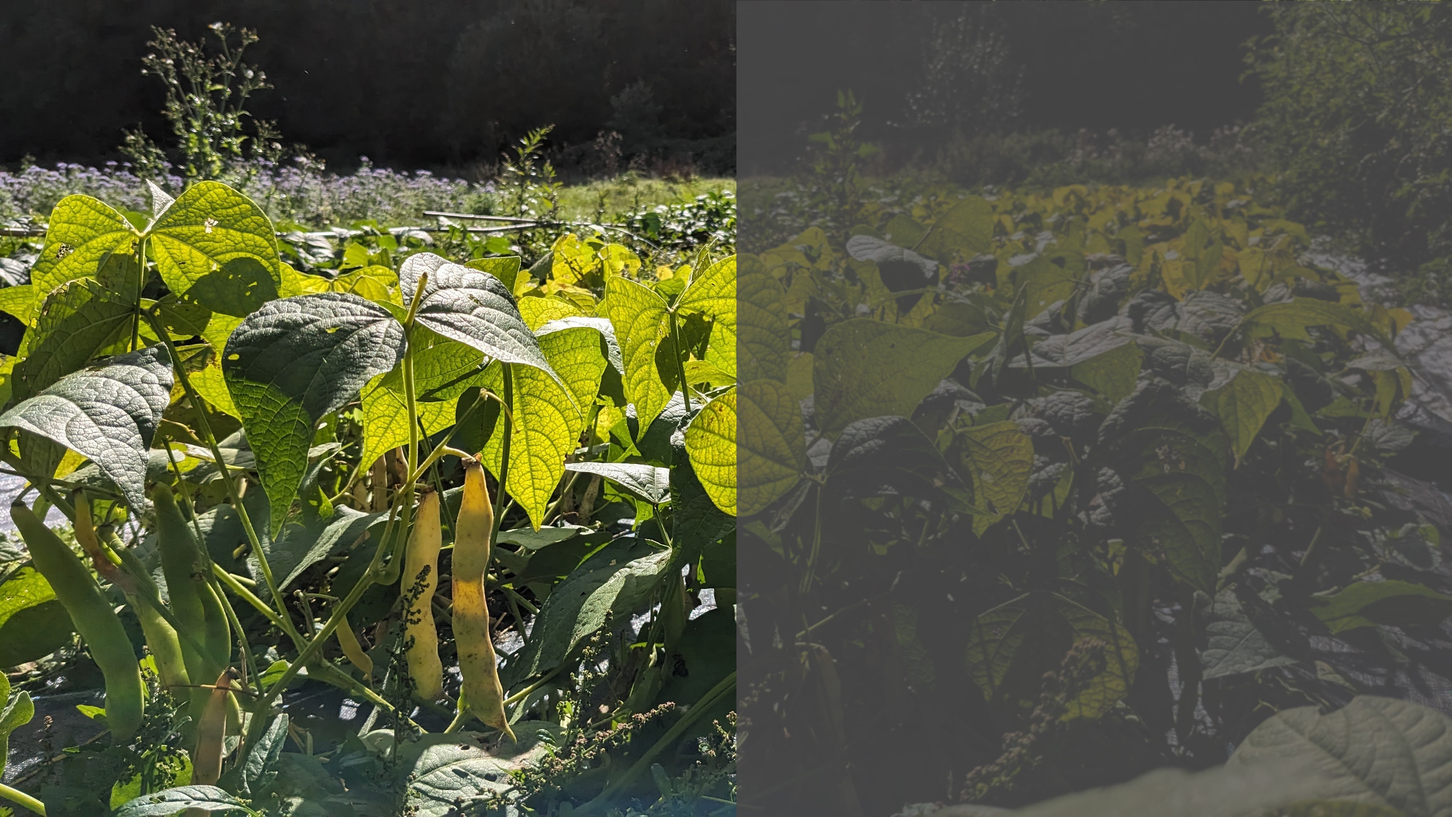
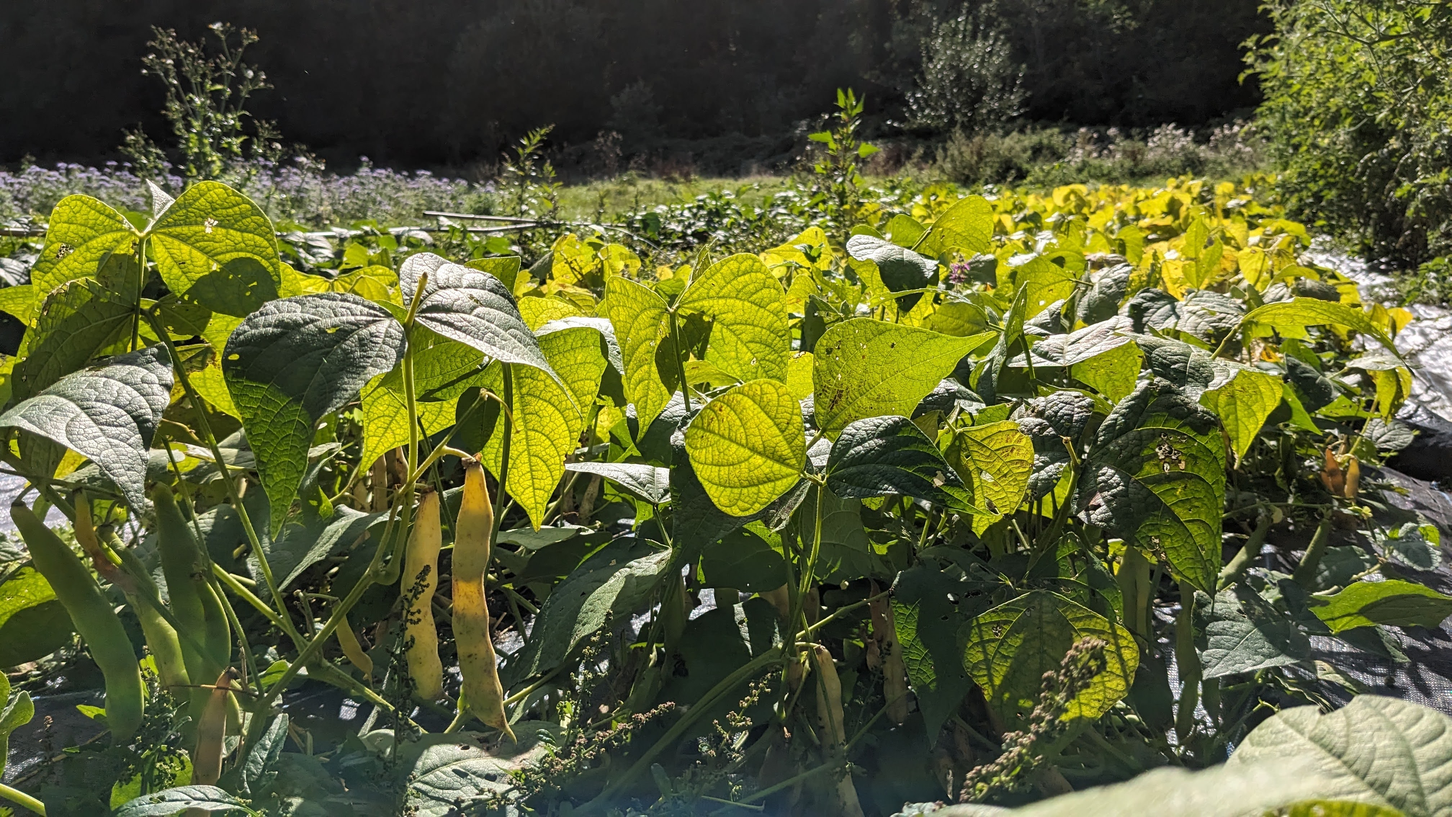
Add background overlay div

diff --git a/seed_portfolio.html b/seed_portfolio.html
@@ -7,7 +7,7 @@
  * @auto-scaling true
  * @size 16:9 1280px 720px
  * @size 4:3 960px 720px
- */div#\:\$p > svg > foreignObject > section :is(pre, marp-pre) code.hljs{display:block;overflow-x:auto;padding:1em}div#\:\$p > svg > foreignObject > section code.hljs{padding:3px 5px}div#\:\$p > svg > foreignObject > section .hljs{background:#000;color:#f8f8f8}div#\:\$p > svg > foreignObject > section .hljs-comment,div#\:\$p > svg > foreignObject > section .hljs-quote{color:#aeaeae;font-style:italic}div#\:\$p > svg > foreignObject > section .hljs-keyword,div#\:\$p > svg > foreignObject > section .hljs-selector-tag,div#\:\$p > svg > foreignObject > section .hljs-type{color:#e28964}div#\:\$p > svg > foreignObject > section .hljs-string{color:#65b042}div#\:\$p > svg > foreignObject > section .hljs-subst{color:#daefa3}div#\:\$p > svg > foreignObject > section .hljs-link,div#\:\$p > svg > foreignObject > section .hljs-regexp{color:#e9c062}div#\:\$p > svg > foreignObject > section .hljs-name,div#\:\$p > svg > foreignObject > section .hljs-section,div#\:\$p > svg > foreignObject > section .hljs-tag,div#\:\$p > svg > foreignObject > section .hljs-title{color:#89bdff}div#\:\$p > svg > foreignObject > section .hljs-class .hljs-title,div#\:\$p > svg > foreignObject > section .hljs-doctag,div#\:\$p > svg > foreignObject > section .hljs-title.class_{text-decoration:underline}div#\:\$p > svg > foreignObject > section .hljs-bullet,div#\:\$p > svg > foreignObject > section .hljs-number,div#\:\$p > svg > foreignObject > section .hljs-symbol{color:#3387cc}div#\:\$p > svg > foreignObject > section .hljs-params,div#\:\$p > svg > foreignObject > section .hljs-template-variable,div#\:\$p > svg > foreignObject > section .hljs-variable{color:#3e87e3}div#\:\$p > svg > foreignObject > section .hljs-attribute{color:#cda869}div#\:\$p > svg > foreignObject > section .hljs-meta{color:#8996a8}div#\:\$p > svg > foreignObject > section .hljs-formula{background-color:#0e2231;color:#f8f8f8;font-style:italic}div#\:\$p > svg > foreignObject > section .hljs-addition{background-color:#253b22;color:#f8f8f8}div#\:\$p > svg > foreignObject > section .hljs-deletion{background-color:#420e09;color:#f8f8f8}div#\:\$p > svg > foreignObject > section .hljs-selector-class{color:#9b703f}div#\:\$p > svg > foreignObject > section .hljs-selector-id{color:#8b98ab}div#\:\$p > svg > foreignObject > section .hljs-emphasis{font-style:italic}div#\:\$p > svg > foreignObject > section .hljs-strong{font-weight:700}div#\:\$p > svg > foreignObject > section :is(h1, marp-h1),div#\:\$p > svg > foreignObject > section :is(h2, marp-h2),div#\:\$p > svg > foreignObject > section :is(h3, marp-h3),div#\:\$p > svg > foreignObject > section :is(h4, marp-h4),div#\:\$p > svg > foreignObject > section :is(h5, marp-h5),div#\:\$p > svg > foreignObject > section :is(h6, marp-h6){margin:.5em 0 0}div#\:\$p > svg > foreignObject > section :is(h1, marp-h1) strong,div#\:\$p > svg > foreignObject > section :is(h2, marp-h2) strong,div#\:\$p > svg > foreignObject > section :is(h3, marp-h3) strong,div#\:\$p > svg > foreignObject > section :is(h4, marp-h4) strong,div#\:\$p > svg > foreignObject > section :is(h5, marp-h5) strong,div#\:\$p > svg > foreignObject > section :is(h6, marp-h6) strong{font-weight:inherit}div#\:\$p > svg > foreignObject > section :is(h1, marp-h1)::part(auto-scaling),div#\:\$p > svg > foreignObject > section :is(h2, marp-h2)::part(auto-scaling),div#\:\$p > svg > foreignObject > section :is(h3, marp-h3)::part(auto-scaling),div#\:\$p > svg > foreignObject > section :is(h4, marp-h4)::part(auto-scaling),div#\:\$p > svg > foreignObject > section :is(h5, marp-h5)::part(auto-scaling),div#\:\$p > svg > foreignObject > section :is(h6, marp-h6)::part(auto-scaling){max-height:580px}div#\:\$p > svg > foreignObject > section :is(h1, marp-h1){font-size:1.8em}div#\:\$p > svg > foreignObject > section :is(h2, marp-h2){font-size:1.5em}div#\:\$p > svg > foreignObject > section :is(h3, marp-h3){font-size:1.3em}div#\:\$p > svg > foreignObject > section :is(h4, marp-h4){font-size:1.1em}div#\:\$p > svg > foreignObject > section :is(h5, marp-h5){font-size:1em}div#\:\$p > svg > foreignObject > section :is(h6, marp-h6){font-size:.9em}div#\:\$p > svg > foreignObject > section blockquote,div#\:\$p > svg > foreignObject > section p{margin:1em 0 0}div#\:\$p > svg > foreignObject > section ol>li,div#\:\$p > svg > foreignObject > section ul>li{margin:.3em 0 0}div#\:\$p > svg > foreignObject > section ol>li>p,div#\:\$p > svg > foreignObject > section ul>li>p{margin:.6em 0 0}div#\:\$p > svg > foreignObject > section code{display:inline-block;font-family:Roboto Mono,monospace;font-size:.8em;letter-spacing:0;margin:-.1em .15em;padding:.1em .2em;vertical-align:baseline}div#\:\$p > svg > foreignObject > section :is(pre, marp-pre){display:block;margin:1em 0 0;overflow:visible}div#\:\$p > svg > foreignObject > section :is(pre, marp-pre) code{box-sizing:border-box;font-size:.7em;margin:0;min-width:100%;padding:.5em}div#\:\$p > svg > foreignObject > section :is(pre, marp-pre)::part(auto-scaling){max-height:calc(580px - 1em)}div#\:\$p > svg > foreignObject > section blockquote{margin:1em 0 0;padding:0 1em;position:relative}div#\:\$p > svg > foreignObject > section blockquote:after,div#\:\$p > svg > foreignObject > section blockquote:before{content:"“";display:block;font-family:Times New Roman,serif;font-weight:700;position:absolute}div#\:\$p > svg > foreignObject > section blockquote:before{left:0;top:0}div#\:\$p > svg > foreignObject > section blockquote:after{bottom:0;right:0;transform:rotate(180deg)}div#\:\$p > svg > foreignObject > section blockquote>:first-child{margin-top:0}div#\:\$p > svg > foreignObject > section mark{background:transparent}div#\:\$p > svg > foreignObject > section table{border-collapse:collapse;border-spacing:0;margin:1em 0 0}div#\:\$p > svg > foreignObject > section table td,div#\:\$p > svg > foreignObject > section table th{border-style:solid;border-width:1px;padding:.2em .4em}div#\:\$p > svg > foreignObject > section footer,div#\:\$p > svg > foreignObject > section header,div#\:\$p > svg > foreignObject > section:after{box-sizing:border-box;font-size:66%;height:70px;line-height:50px;overflow:hidden;padding:10px 25px;position:absolute}div#\:\$p > svg > foreignObject > section:after{--marpit-root-font-size:66%;}div#\:\$p > svg > foreignObject > section header{top:0}div#\:\$p > svg > foreignObject > section footer,div#\:\$p > svg > foreignObject > section header{left:0;right:0}div#\:\$p > svg > foreignObject > section footer{bottom:0}div#\:\$p > svg > foreignObject > section{background-color:var(--color-background);background-image:linear-gradient(135deg, hsla(0,0%,53%,0), hsla(0,0%,53%,.02) 50%, hsla(0,0%,100%,0) 0, hsla(0,0%,100%,.05));color:var(--color-foreground);font-family:Lato,Avenir Next,Avenir,Trebuchet MS,Segoe UI,sans-serif;font-size:35px;height:720px;letter-spacing:1.25px;line-height:1.35;padding:70px;width:1280px;word-wrap:break-word;--color-background:#fff8e1;--color-background-stripe:rgba(69,90,100,.1);--color-foreground:#455a64;--color-dimmed:#6a7a7d;--color-highlight:#0288d1;}div#\:\$p > svg > foreignObject > section{--marpit-root-font-size:35px;}div#\:\$p > svg > foreignObject > section:after{bottom:0;font-size:80%;right:0}div#\:\$p > svg > foreignObject > section:after{--marpit-root-font-size:80%;}div#\:\$p > svg > foreignObject > section a,div#\:\$p > svg > foreignObject > section mark{color:var(--color-highlight)}div#\:\$p > svg > foreignObject > section code{background:var(--color-dimmed);color:var(--color-background)}div#\:\$p > svg > foreignObject > section :is(h1, marp-h1) strong,div#\:\$p > svg > foreignObject > section :is(h2, marp-h2) strong,div#\:\$p > svg > foreignObject > section :is(h3, marp-h3) strong,div#\:\$p > svg > foreignObject > section :is(h4, marp-h4) strong,div#\:\$p > svg > foreignObject > section :is(h5, marp-h5) strong,div#\:\$p > svg > foreignObject > section :is(h6, marp-h6) strong{color:var(--color-highlight)}div#\:\$p > svg > foreignObject > section :is(pre, marp-pre){background:var(--color-foreground)}div#\:\$p > svg > foreignObject > section :is(pre, marp-pre)>code{background:transparent}div#\:\$p > svg > foreignObject > section blockquote:after,div#\:\$p > svg > foreignObject > section blockquote:before,div#\:\$p > svg > foreignObject > section footer,div#\:\$p > svg > foreignObject > section header,div#\:\$p > svg > foreignObject > section section:after{color:var(--color-dimmed)}div#\:\$p > svg > foreignObject > section table td,div#\:\$p > svg > foreignObject > section table th{border-color:var(--color-foreground)}div#\:\$p > svg > foreignObject > section table thead th{background:var(--color-foreground);color:var(--color-background)}div#\:\$p > svg > foreignObject > section table tbody>tr:nth-child(odd) td,div#\:\$p > svg > foreignObject > section table tbody>tr:nth-child(odd) th{background:var(--color-background-stripe, transparent)}div#\:\$p > svg > foreignObject > section>:first-child,div#\:\$p > svg > foreignObject > section>header:first-child+*{margin-top:0}div#\:\$p > svg > foreignObject > section:where(.invert){--color-background:#455a64;--color-background-stripe:rgba(255,248,225,.1);--color-foreground:#fff8e1;--color-dimmed:#dad8c8;--color-highlight:#81d4fa;}div#\:\$p > svg > foreignObject > section:where(.gaia){--color-background:#0288d1;--color-background-stripe:rgba(255,248,225,.1);--color-foreground:#fff8e1;--color-dimmed:#cce2de;--color-highlight:#81d4fa;}div#\:\$p > svg > foreignObject > section:where(.lead){align-items:stretch;flex-flow:column nowrap;place-content:safe center center}div#\:\$p > svg > foreignObject > section:where(.lead) :is(h1, marp-h1),div#\:\$p > svg > foreignObject > section:where(.lead) :is(h2, marp-h2),div#\:\$p > svg > foreignObject > section:where(.lead) :is(h3, marp-h3),div#\:\$p > svg > foreignObject > section:where(.lead) :is(h4, marp-h4),div#\:\$p > svg > foreignObject > section:where(.lead) :is(h5, marp-h5),div#\:\$p > svg > foreignObject > section:where(.lead) :is(h6, marp-h6){text-align:center}div#\:\$p > svg > foreignObject > section:where(.lead) p{text-align:center}div#\:\$p > svg > foreignObject > section:where(.lead) blockquote>:is(h1, marp-h1),div#\:\$p > svg > foreignObject > section:where(.lead) blockquote>:is(h2, marp-h2),div#\:\$p > svg > foreignObject > section:where(.lead) blockquote>:is(h3, marp-h3),div#\:\$p > svg > foreignObject > section:where(.lead) blockquote>:is(h4, marp-h4),div#\:\$p > svg > foreignObject > section:where(.lead) blockquote>:is(h5, marp-h5),div#\:\$p > svg > foreignObject > section:where(.lead) blockquote>:is(h6, marp-h6),div#\:\$p > svg > foreignObject > section:where(.lead) blockquote>p{text-align:left}div#\:\$p > svg > foreignObject > section:where(.lead) ol>li>p,div#\:\$p > svg > foreignObject > section:where(.lead) ul>li>p{text-align:left}div#\:\$p > svg > foreignObject > section:where(.lead) table{margin-left:auto;margin-right:auto}div#\:\$p > svg > foreignObject > :where(section){container-type:size}div#\:\$p > svg > foreignObject > section img[data-marp-twemoji]{background:transparent;height:1em;margin:0 .05em 0 .1em;vertical-align:-.1em;width:1em}div#\:\$p > svg > foreignObject > :where(section):not([\20 root]){}div#\:\$p > svg > foreignObject > section.right-align{text-align:right}div#\:\$p > svg > foreignObject > section .two-column{display:flex;justify-content:space-between}div#\:\$p > svg > foreignObject > section .two-column > div{width:48%}div#\:\$p > svg > foreignObject > section .two-column table{font-size:calc(var(--marpit-root-font-size, 1rem) * 0.55)}div#\:\$p > svg > foreignObject > section[data-marpit-advanced-background="background"]{columns:initial!important;display:block!important;padding:0!important}div#\:\$p > svg > foreignObject > section[data-marpit-advanced-background="background"]::before, div#\:\$p > svg > foreignObject > section[data-marpit-advanced-background="background"]::after, div#\:\$p > svg > foreignObject > section[data-marpit-advanced-background="content"]::before, div#\:\$p > svg > foreignObject > section[data-marpit-advanced-background="content"]::after{display:none!important}div#\:\$p > svg > foreignObject > section[data-marpit-advanced-background="background"] > div[data-marpit-advanced-background-container]{all:initial;display:flex;flex-direction:row;height:100%;overflow:hidden;width:100%}div#\:\$p > svg > foreignObject > section[data-marpit-advanced-background="background"] > div[data-marpit-advanced-background-container][data-marpit-advanced-background-direction="vertical"]{flex-direction:column}div#\:\$p > svg > foreignObject > section[data-marpit-advanced-background="background"][data-marpit-advanced-background-split] > div[data-marpit-advanced-background-container]{width:var(--marpit-advanced-background-split, 50%)}div#\:\$p > svg > foreignObject > section[data-marpit-advanced-background="background"][data-marpit-advanced-background-split="right"] > div[data-marpit-advanced-background-container]{margin-left:calc(100% - var(--marpit-advanced-background-split, 50%))}div#\:\$p > svg > foreignObject > section[data-marpit-advanced-background="background"] > div[data-marpit-advanced-background-container] > figure{all:initial;background-position:center;background-repeat:no-repeat;background-size:cover;flex:auto;margin:0}div#\:\$p > svg > foreignObject > section[data-marpit-advanced-background="background"] > div[data-marpit-advanced-background-container] > figure > figcaption{position:absolute;border:0;clip:rect(0, 0, 0, 0);height:1px;margin:-1px;overflow:hidden;padding:0;white-space:nowrap;width:1px}div#\:\$p > svg > foreignObject > section[data-marpit-advanced-background="content"], div#\:\$p > svg > foreignObject > section[data-marpit-advanced-background="pseudo"]{background:transparent!important}div#\:\$p > svg > foreignObject > section[data-marpit-advanced-background="pseudo"], div#\:\$p > svg[data-marpit-svg] > foreignObject[data-marpit-advanced-background="pseudo"]{pointer-events:none!important}div#\:\$p > svg > foreignObject > section[data-marpit-advanced-background-split]{width:100%;height:100%}
+ */div#\:\$p > svg > foreignObject > section :is(pre, marp-pre) code.hljs{display:block;overflow-x:auto;padding:1em}div#\:\$p > svg > foreignObject > section code.hljs{padding:3px 5px}div#\:\$p > svg > foreignObject > section .hljs{background:#000;color:#f8f8f8}div#\:\$p > svg > foreignObject > section .hljs-comment,div#\:\$p > svg > foreignObject > section .hljs-quote{color:#aeaeae;font-style:italic}div#\:\$p > svg > foreignObject > section .hljs-keyword,div#\:\$p > svg > foreignObject > section .hljs-selector-tag,div#\:\$p > svg > foreignObject > section .hljs-type{color:#e28964}div#\:\$p > svg > foreignObject > section .hljs-string{color:#65b042}div#\:\$p > svg > foreignObject > section .hljs-subst{color:#daefa3}div#\:\$p > svg > foreignObject > section .hljs-link,div#\:\$p > svg > foreignObject > section .hljs-regexp{color:#e9c062}div#\:\$p > svg > foreignObject > section .hljs-name,div#\:\$p > svg > foreignObject > section .hljs-section,div#\:\$p > svg > foreignObject > section .hljs-tag,div#\:\$p > svg > foreignObject > section .hljs-title{color:#89bdff}div#\:\$p > svg > foreignObject > section .hljs-class .hljs-title,div#\:\$p > svg > foreignObject > section .hljs-doctag,div#\:\$p > svg > foreignObject > section .hljs-title.class_{text-decoration:underline}div#\:\$p > svg > foreignObject > section .hljs-bullet,div#\:\$p > svg > foreignObject > section .hljs-number,div#\:\$p > svg > foreignObject > section .hljs-symbol{color:#3387cc}div#\:\$p > svg > foreignObject > section .hljs-params,div#\:\$p > svg > foreignObject > section .hljs-template-variable,div#\:\$p > svg > foreignObject > section .hljs-variable{color:#3e87e3}div#\:\$p > svg > foreignObject > section .hljs-attribute{color:#cda869}div#\:\$p > svg > foreignObject > section .hljs-meta{color:#8996a8}div#\:\$p > svg > foreignObject > section .hljs-formula{background-color:#0e2231;color:#f8f8f8;font-style:italic}div#\:\$p > svg > foreignObject > section .hljs-addition{background-color:#253b22;color:#f8f8f8}div#\:\$p > svg > foreignObject > section .hljs-deletion{background-color:#420e09;color:#f8f8f8}div#\:\$p > svg > foreignObject > section .hljs-selector-class{color:#9b703f}div#\:\$p > svg > foreignObject > section .hljs-selector-id{color:#8b98ab}div#\:\$p > svg > foreignObject > section .hljs-emphasis{font-style:italic}div#\:\$p > svg > foreignObject > section .hljs-strong{font-weight:700}div#\:\$p > svg > foreignObject > section :is(h1, marp-h1),div#\:\$p > svg > foreignObject > section :is(h2, marp-h2),div#\:\$p > svg > foreignObject > section :is(h3, marp-h3),div#\:\$p > svg > foreignObject > section :is(h4, marp-h4),div#\:\$p > svg > foreignObject > section :is(h5, marp-h5),div#\:\$p > svg > foreignObject > section :is(h6, marp-h6){margin:.5em 0 0}div#\:\$p > svg > foreignObject > section :is(h1, marp-h1) strong,div#\:\$p > svg > foreignObject > section :is(h2, marp-h2) strong,div#\:\$p > svg > foreignObject > section :is(h3, marp-h3) strong,div#\:\$p > svg > foreignObject > section :is(h4, marp-h4) strong,div#\:\$p > svg > foreignObject > section :is(h5, marp-h5) strong,div#\:\$p > svg > foreignObject > section :is(h6, marp-h6) strong{font-weight:inherit}div#\:\$p > svg > foreignObject > section :is(h1, marp-h1)::part(auto-scaling),div#\:\$p > svg > foreignObject > section :is(h2, marp-h2)::part(auto-scaling),div#\:\$p > svg > foreignObject > section :is(h3, marp-h3)::part(auto-scaling),div#\:\$p > svg > foreignObject > section :is(h4, marp-h4)::part(auto-scaling),div#\:\$p > svg > foreignObject > section :is(h5, marp-h5)::part(auto-scaling),div#\:\$p > svg > foreignObject > section :is(h6, marp-h6)::part(auto-scaling){max-height:580px}div#\:\$p > svg > foreignObject > section :is(h1, marp-h1){font-size:1.8em}div#\:\$p > svg > foreignObject > section :is(h2, marp-h2){font-size:1.5em}div#\:\$p > svg > foreignObject > section :is(h3, marp-h3){font-size:1.3em}div#\:\$p > svg > foreignObject > section :is(h4, marp-h4){font-size:1.1em}div#\:\$p > svg > foreignObject > section :is(h5, marp-h5){font-size:1em}div#\:\$p > svg > foreignObject > section :is(h6, marp-h6){font-size:.9em}div#\:\$p > svg > foreignObject > section blockquote,div#\:\$p > svg > foreignObject > section p{margin:1em 0 0}div#\:\$p > svg > foreignObject > section ol>li,div#\:\$p > svg > foreignObject > section ul>li{margin:.3em 0 0}div#\:\$p > svg > foreignObject > section ol>li>p,div#\:\$p > svg > foreignObject > section ul>li>p{margin:.6em 0 0}div#\:\$p > svg > foreignObject > section code{display:inline-block;font-family:Roboto Mono,monospace;font-size:.8em;letter-spacing:0;margin:-.1em .15em;padding:.1em .2em;vertical-align:baseline}div#\:\$p > svg > foreignObject > section :is(pre, marp-pre){display:block;margin:1em 0 0;overflow:visible}div#\:\$p > svg > foreignObject > section :is(pre, marp-pre) code{box-sizing:border-box;font-size:.7em;margin:0;min-width:100%;padding:.5em}div#\:\$p > svg > foreignObject > section :is(pre, marp-pre)::part(auto-scaling){max-height:calc(580px - 1em)}div#\:\$p > svg > foreignObject > section blockquote{margin:1em 0 0;padding:0 1em;position:relative}div#\:\$p > svg > foreignObject > section blockquote:after,div#\:\$p > svg > foreignObject > section blockquote:before{content:"“";display:block;font-family:Times New Roman,serif;font-weight:700;position:absolute}div#\:\$p > svg > foreignObject > section blockquote:before{left:0;top:0}div#\:\$p > svg > foreignObject > section blockquote:after{bottom:0;right:0;transform:rotate(180deg)}div#\:\$p > svg > foreignObject > section blockquote>:first-child{margin-top:0}div#\:\$p > svg > foreignObject > section mark{background:transparent}div#\:\$p > svg > foreignObject > section table{border-collapse:collapse;border-spacing:0;margin:1em 0 0}div#\:\$p > svg > foreignObject > section table td,div#\:\$p > svg > foreignObject > section table th{border-style:solid;border-width:1px;padding:.2em .4em}div#\:\$p > svg > foreignObject > section footer,div#\:\$p > svg > foreignObject > section header,div#\:\$p > svg > foreignObject > section:after{box-sizing:border-box;font-size:66%;height:70px;line-height:50px;overflow:hidden;padding:10px 25px;position:absolute}div#\:\$p > svg > foreignObject > section:after{--marpit-root-font-size:66%;}div#\:\$p > svg > foreignObject > section header{top:0}div#\:\$p > svg > foreignObject > section footer,div#\:\$p > svg > foreignObject > section header{left:0;right:0}div#\:\$p > svg > foreignObject > section footer{bottom:0}div#\:\$p > svg > foreignObject > section{background-color:var(--color-background);background-image:linear-gradient(135deg, hsla(0,0%,53%,0), hsla(0,0%,53%,.02) 50%, hsla(0,0%,100%,0) 0, hsla(0,0%,100%,.05));color:var(--color-foreground);font-family:Lato,Avenir Next,Avenir,Trebuchet MS,Segoe UI,sans-serif;font-size:35px;height:720px;letter-spacing:1.25px;line-height:1.35;padding:70px;width:1280px;word-wrap:break-word;--color-background:#fff8e1;--color-background-stripe:rgba(69,90,100,.1);--color-foreground:#455a64;--color-dimmed:#6a7a7d;--color-highlight:#0288d1;}div#\:\$p > svg > foreignObject > section{--marpit-root-font-size:35px;}div#\:\$p > svg > foreignObject > section:after{bottom:0;font-size:80%;right:0}div#\:\$p > svg > foreignObject > section:after{--marpit-root-font-size:80%;}div#\:\$p > svg > foreignObject > section a,div#\:\$p > svg > foreignObject > section mark{color:var(--color-highlight)}div#\:\$p > svg > foreignObject > section code{background:var(--color-dimmed);color:var(--color-background)}div#\:\$p > svg > foreignObject > section :is(h1, marp-h1) strong,div#\:\$p > svg > foreignObject > section :is(h2, marp-h2) strong,div#\:\$p > svg > foreignObject > section :is(h3, marp-h3) strong,div#\:\$p > svg > foreignObject > section :is(h4, marp-h4) strong,div#\:\$p > svg > foreignObject > section :is(h5, marp-h5) strong,div#\:\$p > svg > foreignObject > section :is(h6, marp-h6) strong{color:var(--color-highlight)}div#\:\$p > svg > foreignObject > section :is(pre, marp-pre){background:var(--color-foreground)}div#\:\$p > svg > foreignObject > section :is(pre, marp-pre)>code{background:transparent}div#\:\$p > svg > foreignObject > section blockquote:after,div#\:\$p > svg > foreignObject > section blockquote:before,div#\:\$p > svg > foreignObject > section footer,div#\:\$p > svg > foreignObject > section header,div#\:\$p > svg > foreignObject > section section:after{color:var(--color-dimmed)}div#\:\$p > svg > foreignObject > section table td,div#\:\$p > svg > foreignObject > section table th{border-color:var(--color-foreground)}div#\:\$p > svg > foreignObject > section table thead th{background:var(--color-foreground);color:var(--color-background)}div#\:\$p > svg > foreignObject > section table tbody>tr:nth-child(odd) td,div#\:\$p > svg > foreignObject > section table tbody>tr:nth-child(odd) th{background:var(--color-background-stripe, transparent)}div#\:\$p > svg > foreignObject > section>:first-child,div#\:\$p > svg > foreignObject > section>header:first-child+*{margin-top:0}div#\:\$p > svg > foreignObject > section:where(.invert){--color-background:#455a64;--color-background-stripe:rgba(255,248,225,.1);--color-foreground:#fff8e1;--color-dimmed:#dad8c8;--color-highlight:#81d4fa;}div#\:\$p > svg > foreignObject > section:where(.gaia){--color-background:#0288d1;--color-background-stripe:rgba(255,248,225,.1);--color-foreground:#fff8e1;--color-dimmed:#cce2de;--color-highlight:#81d4fa;}div#\:\$p > svg > foreignObject > section:where(.lead){align-items:stretch;flex-flow:column nowrap;place-content:safe center center}div#\:\$p > svg > foreignObject > section:where(.lead) :is(h1, marp-h1),div#\:\$p > svg > foreignObject > section:where(.lead) :is(h2, marp-h2),div#\:\$p > svg > foreignObject > section:where(.lead) :is(h3, marp-h3),div#\:\$p > svg > foreignObject > section:where(.lead) :is(h4, marp-h4),div#\:\$p > svg > foreignObject > section:where(.lead) :is(h5, marp-h5),div#\:\$p > svg > foreignObject > section:where(.lead) :is(h6, marp-h6){text-align:center}div#\:\$p > svg > foreignObject > section:where(.lead) p{text-align:center}div#\:\$p > svg > foreignObject > section:where(.lead) blockquote>:is(h1, marp-h1),div#\:\$p > svg > foreignObject > section:where(.lead) blockquote>:is(h2, marp-h2),div#\:\$p > svg > foreignObject > section:where(.lead) blockquote>:is(h3, marp-h3),div#\:\$p > svg > foreignObject > section:where(.lead) blockquote>:is(h4, marp-h4),div#\:\$p > svg > foreignObject > section:where(.lead) blockquote>:is(h5, marp-h5),div#\:\$p > svg > foreignObject > section:where(.lead) blockquote>:is(h6, marp-h6),div#\:\$p > svg > foreignObject > section:where(.lead) blockquote>p{text-align:left}div#\:\$p > svg > foreignObject > section:where(.lead) ol>li>p,div#\:\$p > svg > foreignObject > section:where(.lead) ul>li>p{text-align:left}div#\:\$p > svg > foreignObject > section:where(.lead) table{margin-left:auto;margin-right:auto}div#\:\$p > svg > foreignObject > :where(section){container-type:size}div#\:\$p > svg > foreignObject > section img[data-marp-twemoji]{background:transparent;height:1em;margin:0 .05em 0 .1em;vertical-align:-.1em;width:1em}div#\:\$p > svg > foreignObject > :where(section):not([\20 root]){}div#\:\$p > svg > foreignObject > section.right-align{text-align:right}div#\:\$p > svg > foreignObject > section.right-align > *{position:relative;z-index:10}div#\:\$p > svg > foreignObject > section .two-column{display:flex;justify-content:space-between}div#\:\$p > svg > foreignObject > section .two-column > div{width:48%}div#\:\$p > svg > foreignObject > section .two-column table{font-size:calc(var(--marpit-root-font-size, 1rem) * 0.55)}div#\:\$p > svg > foreignObject > section .bg-overlay--right-50{position:absolute;right:0;top:0;display:block;width:50%;height:100%;background-color:rgba(36, 36, 36, 0.8);z-index:0}div#\:\$p > svg > foreignObject > section .bg-overlay--right-40{position:absolute;right:0;top:0;display:block;width:40%;height:100%;background-color:rgba(36, 36, 36, 0.8);z-index:0}div#\:\$p > svg > foreignObject > section[data-marpit-advanced-background="background"]{columns:initial!important;display:block!important;padding:0!important}div#\:\$p > svg > foreignObject > section[data-marpit-advanced-background="background"]::before, div#\:\$p > svg > foreignObject > section[data-marpit-advanced-background="background"]::after, div#\:\$p > svg > foreignObject > section[data-marpit-advanced-background="content"]::before, div#\:\$p > svg > foreignObject > section[data-marpit-advanced-background="content"]::after{display:none!important}div#\:\$p > svg > foreignObject > section[data-marpit-advanced-background="background"] > div[data-marpit-advanced-background-container]{all:initial;display:flex;flex-direction:row;height:100%;overflow:hidden;width:100%}div#\:\$p > svg > foreignObject > section[data-marpit-advanced-background="background"] > div[data-marpit-advanced-background-container][data-marpit-advanced-background-direction="vertical"]{flex-direction:column}div#\:\$p > svg > foreignObject > section[data-marpit-advanced-background="background"][data-marpit-advanced-background-split] > div[data-marpit-advanced-background-container]{width:var(--marpit-advanced-background-split, 50%)}div#\:\$p > svg > foreignObject > section[data-marpit-advanced-background="background"][data-marpit-advanced-background-split="right"] > div[data-marpit-advanced-background-container]{margin-left:calc(100% - var(--marpit-advanced-background-split, 50%))}div#\:\$p > svg > foreignObject > section[data-marpit-advanced-background="background"] > div[data-marpit-advanced-background-container] > figure{all:initial;background-position:center;background-repeat:no-repeat;background-size:cover;flex:auto;margin:0}div#\:\$p > svg > foreignObject > section[data-marpit-advanced-background="background"] > div[data-marpit-advanced-background-container] > figure > figcaption{position:absolute;border:0;clip:rect(0, 0, 0, 0);height:1px;margin:-1px;overflow:hidden;padding:0;white-space:nowrap;width:1px}div#\:\$p > svg > foreignObject > section[data-marpit-advanced-background="content"], div#\:\$p > svg > foreignObject > section[data-marpit-advanced-background="pseudo"]{background:transparent!important}div#\:\$p > svg > foreignObject > section[data-marpit-advanced-background="pseudo"], div#\:\$p > svg[data-marpit-svg] > foreignObject[data-marpit-advanced-background="pseudo"]{pointer-events:none!important}div#\:\$p > svg > foreignObject > section[data-marpit-advanced-background-split]{width:100%;height:100%}
 </style></head><body><div class="bespoke-marp-osc"><button data-bespoke-marp-osc="prev" tabindex="-1" title="Previous slide">Previous slide</button><span data-bespoke-marp-osc="page"></span><button data-bespoke-marp-osc="next" tabindex="-1" title="Next slide">Next slide</button><button data-bespoke-marp-osc="fullscreen" tabindex="-1" title="Toggle fullscreen (f)">Toggle fullscreen</button><button data-bespoke-marp-osc="presenter" tabindex="-1" title="Open presenter view (p)">Open presenter view</button></div><div id=":$p"><svg data-marpit-svg="" viewBox="0 0 1280 720"><foreignObject width="1280" height="720"><section id="1" data-class="lead invert" data-theme="tombola" lang="en-GB" class="lead invert" style="--class:lead invert;--theme:tombola;">
 <h1 id="tom-readings">Tom Readings</h1>
 <h2 id="seed-portfolio">Seed Portfolio</h2>
@@ -26,7 +26,7 @@
 </ul>
 <h2 id=""></h2>
 </section>
-</foreignObject></svg><svg data-marpit-svg="" viewBox="0 0 1280 720"><foreignObject width="1280" height="720"><section id="3" data-class="invert" data-background-image="url('images/snowy_field.jpg')" data-background-position="90vw" data-theme="tombola" lang="en-GB" class="invert" style="--class:invert;--background-image:url('images/snowy_field.jpg');--background-position:90vw;--theme:tombola;background-image:url('images/snowy_field.jpg');background-position:90vw;background-repeat:no-repeat;background-size:cover;">
+</foreignObject></svg><svg data-marpit-svg="" viewBox="0 0 1280 720"><foreignObject width="1280" height="720"><section id="3" data-class="invert" data-background-image="url('images/snowy_field.jpg')" data-background-position="50vw" data-theme="tombola" lang="en-GB" class="invert" style="--class:invert;--background-image:url('images/snowy_field.jpg');--background-position:50vw;--theme:tombola;background-image:url('images/snowy_field.jpg');background-position:50vw;background-repeat:no-repeat;background-size:cover;">
 <h1 id="growing-site">Growing Site</h1>
 <h2 id="vital-seeds">Vital Seeds</h2>
 <h2 id="baddaford-farm">Baddaford Farm</h2>
@@ -57,12 +57,9 @@ valley either north or south</em></p>
 the lower field<br />
 early/later in the year</p>
 </section>
-</foreignObject></svg><svg data-marpit-svg="" viewBox="0 0 1280 720"><foreignObject width="1280" height="720"><section id="12" data-class="invert" data-background-image="none" data-background-position="left" data-background-size="contain" data-theme="tombola" lang="en-GB" class="invert" style="--class:invert;--background-image:none;--background-position:left;--background-size:contain;--theme:tombola;background-image:none;background-position:left;background-repeat:no-repeat;background-size:contain;"><div class="two-column">
-  <div>
-   <h1>Multispan</h1>
-   <p>Soil report</p>
-  </div>
-  <div>
+</foreignObject></svg><svg data-marpit-svg="" viewBox="0 0 1280 720"><foreignObject width="1280" height="720"><section id="12" data-class="table-right invert" data-background-image="none" data-background-position="left" data-background-size="contain" data-theme="tombola" lang="en-GB" class="table-right invert" style="--class:table-right invert;--background-image:none;--background-position:left;--background-size:contain;--theme:tombola;background-image:none;background-position:left;background-repeat:no-repeat;background-size:contain;">
+<h2 id="multispan">Multispan</h2>
+<p>Soil report</p>
 <table>
 <thead>
 <tr>
@@ -166,14 +163,9 @@ early/later in the year</p>
 </tbody>
 </table>
 </section>
-</foreignObject></svg><svg data-marpit-svg="" viewBox="0 0 1280 720"><foreignObject width="1280" height="720"><section id="13" data-class="invert" data-background-image="none" data-background-position="left" data-background-size="contain" data-theme="tombola" lang="en-GB" class="invert" style="--class:invert;--background-image:none;--background-position:left;--background-size:contain;--theme:tombola;background-image:none;background-position:left;background-repeat:no-repeat;background-size:contain;">
-  </div>
-<div class="two-column">
-  <div>
-   <h1>Field</h1>
-   <p>Soil report</p>
-  </div>
-  <div>
+</foreignObject></svg><svg data-marpit-svg="" viewBox="0 0 1280 720"><foreignObject width="1280" height="720"><section id="13" data-class="table-right invert" data-background-image="none" data-background-position="left" data-background-size="contain" data-theme="tombola" lang="en-GB" class="table-right invert" style="--class:table-right invert;--background-image:none;--background-position:left;--background-size:contain;--theme:tombola;background-image:none;background-position:left;background-repeat:no-repeat;background-size:contain;">
+<h2 id="field">Field</h2>
+<p>Soil report</p>
 <table>
 <thead>
 <tr>
@@ -277,24 +269,22 @@ early/later in the year</p>
 </tbody>
 </table>
 </section>
-</foreignObject></svg><svg data-marpit-svg="" viewBox="0 0 1280 720"><foreignObject width="1280" height="720"><section id="14" data-class="right-align invert" data-background-image="url('images/harricot/sunshine.jpg')" data-background-position="left" data-background-size="contain" data-theme="tombola" lang="en-GB" class="right-align invert" style="--class:right-align invert;--background-image:url('images/harricot/sunshine.jpg');--background-position:left;--background-size:contain;--theme:tombola;background-image:url('images/harricot/sunshine.jpg');background-position:left;background-repeat:no-repeat;background-size:contain;">
-  </div>
-</div>
-
+</foreignObject></svg><svg data-marpit-svg="" viewBox="0 0 1280 720"><foreignObject width="1280" height="720"><section id="14" data-class="right-align invert" data-background-image="url('images/harricot/sunshine.jpg')" data-background-position="left" data-background-size="contain" data-theme="tombola" lang="en-GB" class="right-align invert" style="--class:right-align invert;--background-image:url('images/harricot/sunshine.jpg');--background-position:left;--background-size:contain;--theme:tombola;background-image:url('images/harricot/sunshine.jpg');background-position:left;background-repeat:no-repeat;background-size:contain;"><div class="bg-overlay--right-50"></div>
 <h2 id="brittany-harricot">Brittany Harricot</h2>
 <p>Plump round bean with<br />
 purple marbled pods<br />
 <em>best fresh from dry pods</em></p>
-<p>direct sown</p>
-<p>x2 per hole<br />
+<p>direct sown <strong>1/5/24</strong></p>
+<p>x 2 per hole<br />
 1.2m formed bed<br />
 3 rows<br />
 mypex - holes 25cm</p>
 </section>
-</foreignObject></svg><svg data-marpit-svg="" viewBox="0 0 1280 720"><foreignObject width="1280" height="720"><section id="15" data-class="right-align invert" data-background-image="url('images/harricot/germination.jpg')" data-background-position="left" data-background-size="contain" data-theme="tombola" lang="en-GB" class="right-align invert" style="--class:right-align invert;--background-image:url('images/harricot/germination.jpg');--background-position:left;--background-size:contain;--theme:tombola;background-image:url('images/harricot/germination.jpg');background-position:left;background-repeat:no-repeat;background-size:contain;">
-<p>Date of germination:<br />
-Date of seed harvest:<br />
-Seed Crop Portfolio</p>
+</foreignObject></svg><svg data-marpit-svg="" viewBox="0 0 1280 720"><foreignObject width="1280" height="720"><section id="15" data-class="right-align invert" data-background-image="url('images/harricot/germ_crop.jpg')" data-background-position="left" data-background-size="cover" data-theme="tombola" lang="en-GB" class="right-align invert" style="--class:right-align invert;--background-image:url('images/harricot/germ_crop.jpg');--background-position:left;--background-size:cover;--theme:tombola;background-image:url('images/harricot/germ_crop.jpg');background-position:left;background-repeat:no-repeat;background-size:cover;"><div class="bg-overlay--right-40"></div>
+<p>Germinated<br />
+<strong>~24/5/24</strong></p>
+<p>Harvested<br />
+<strong>17</strong> - <strong>24</strong>/9/24</p>
 <p>Species:<br />
 Annual or biennial:<br />
 Pollination method:</p>

diff --git a/themes/tombola.css b/themes/tombola.css
@@ -9,6 +9,10 @@
 section.right-align {
   text-align: right;
 }
+section.right-align > * {
+  position: relative;
+  z-index: 10;
+}
 
 .two-column {
   display: flex;
@@ -19,4 +23,26 @@ section.right-align {
 }
 .two-column table {
   font-size: 0.55rem;
+}
+
+.bg-overlay--right-50 {
+  position: absolute;
+  right:0;
+  top: 0;
+  display: block;
+  width: 50%;
+  height: 100%;
+  background-color: rgba(36, 36, 36, 0.8);
+  z-index:0;
+}
+
+.bg-overlay--right-40 {
+  position: absolute;
+  right:0;
+  top: 0;
+  display: block;
+  width: 40%;
+  height: 100%;
+  background-color: rgba(36, 36, 36, 0.8);
+  z-index:0;
 }

diff --git a/seed_portfolio.md b/seed_portfolio.md
@@ -33,7 +33,7 @@ Gaia Year-Long Seed Production Training
 
 <!--
 backgroundImage: url('images/snowy_field.jpg')
-backgroundPosition: 90vw
+backgroundPosition: 50vw
 
 -->
 
@@ -128,13 +128,12 @@ early/later in the year
 
 <!--
 backgroundImage: none
+class: table-right invert
 -->
-<div class="two-column">
-  <div>
-   <h1>Multispan</h1>
-   <p>Soil report</p>
-  </div>
-  <div>
+
+## Multispan
+
+Soil report
 
 | Analysis               | Result | Guideline | Interpretation |
 | ---------------------- | ------ | --------- | -------------- |
@@ -156,17 +155,14 @@ backgroundImage: none
 
 ---
 
-  </div>
-
 <!--
 backgroundImage: none
+class: table-right invert
 -->
-<div class="two-column">
-  <div>
-   <h1>Field</h1>
-   <p>Soil report</p>
-  </div>
-  <div>
+
+## Field
+
+Soil report
 
 | Analysis               | Result | Guideline | Interpretation |
 | ---------------------- | ------ | --------- | -------------- |
@@ -188,9 +184,6 @@ backgroundImage: none
 
 ---
 
-  </div>
-</div>
-
 <!--
 _class: right-align invert
 backgroundImage: url('images/zebrune/laid_portrait.png')
@@ -204,15 +197,17 @@ backgroundPosition: left
 backgroundSize: contain
 -->
 
+<div class="bg-overlay--right-50"></div>
+
 ## Brittany Harricot
 
 Plump round bean with
 purple marbled pods
 _best fresh from dry pods_
 
-direct sown
+direct sown **1/5/24**
 
-x2 per hole
+x 2 per hole
 1.2m formed bed
 3 rows
 mypex - holes 25cm
@@ -221,13 +216,17 @@ mypex - holes 25cm
 
 <!--
 _class: right-align invert
-backgroundImage: url('images/harricot/germination.jpg')
-backgroundSize: contain
+backgroundImage: url('images/harricot/germ_crop.jpg')
+backgroundSize: cover
 -->
 
-Date of germination:
-Date of seed harvest:
-Seed Crop Portfolio
+<div class="bg-overlay--right-40"></div>
+
+Germinated
+**~24/5/24**
+
+Harvested
+**17** - **24**/9/24
 
 Species:
 Annual or biennial:
